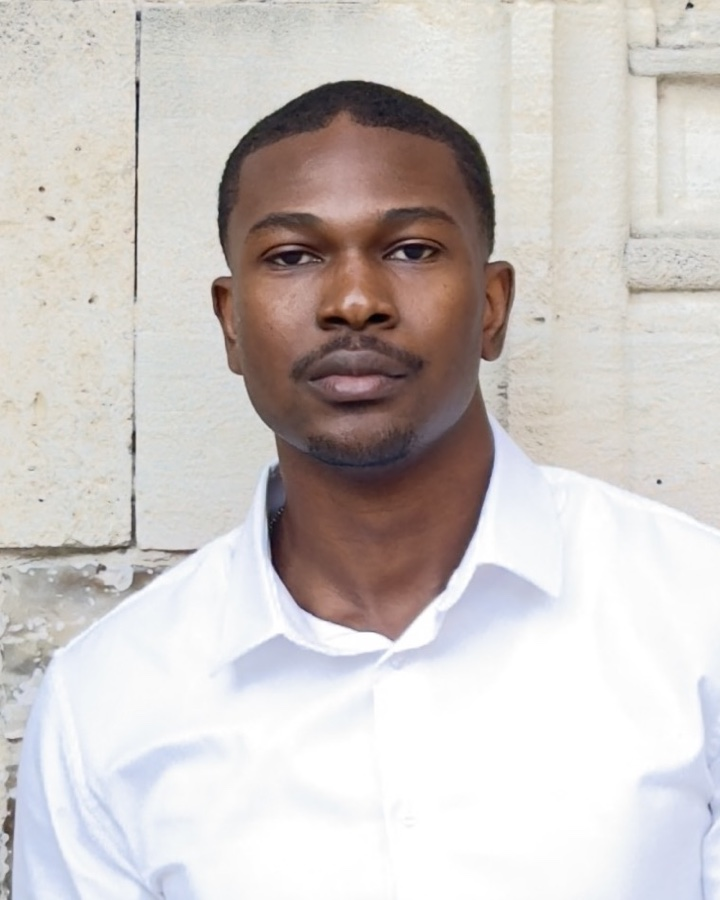
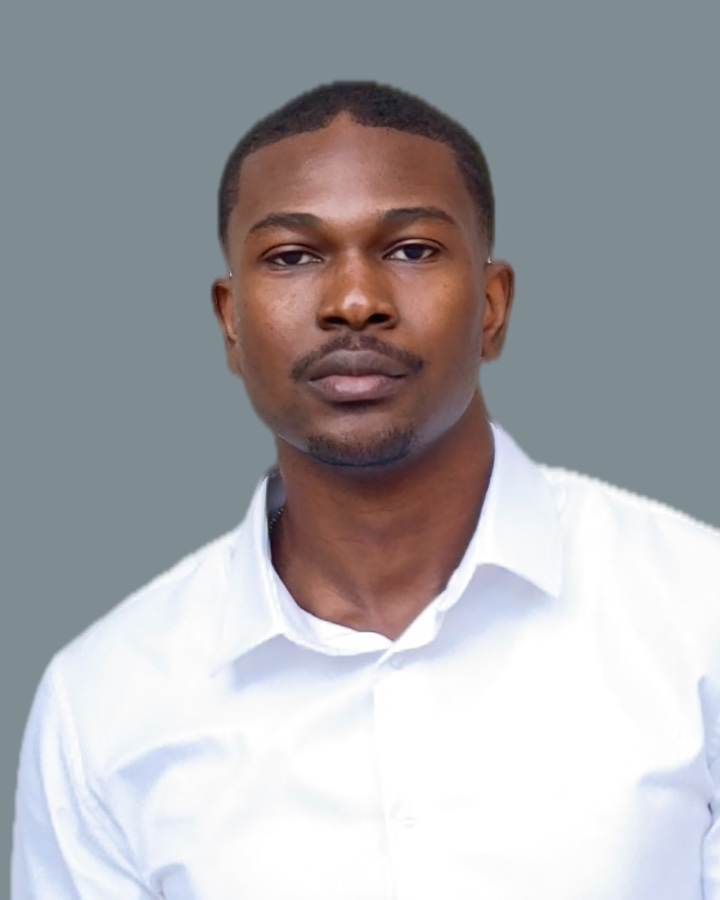
Passer le portrait sur un fond uni de studio
Sujet détouré avec Vision (macOS), bords recolorés depuis l'intérieur
du sujet pour éviter le liseré clair du mur d'origine, fond gris bleuté
uni #7F8C92 accordé à la palette du site.

diff --git a/en/index.html b/en/index.html
@@ -23,7 +23,7 @@
     <link rel="preconnect" href="https://fonts.googleapis.com" />
     <link rel="preconnect" href="https://fonts.gstatic.com" crossorigin />
     <link href="https://fonts.googleapis.com/css2?family=Figtree:wght@400;500;600;700&amp;family=IBM+Plex+Mono:wght@400;500&amp;display=swap" rel="stylesheet" />
-    <link rel="stylesheet" href="../portfolio.css?v=20261004j" />
+    <link rel="stylesheet" href="../portfolio.css?v=20261004k" />
     <script data-goatcounter="https://ikel-portfolio.goatcounter.com/count" async src="https://gc.zgo.at/count.js"></script>
   </head>
   <body>

diff --git a/index.html b/index.html
@@ -23,7 +23,7 @@
     <link rel="preconnect" href="https://fonts.googleapis.com" />
     <link rel="preconnect" href="https://fonts.gstatic.com" crossorigin />
     <link href="https://fonts.googleapis.com/css2?family=Figtree:wght@400;500;600;700&amp;family=IBM+Plex+Mono:wght@400;500&amp;display=swap" rel="stylesheet" />
-    <link rel="stylesheet" href="portfolio.css?v=20261004j" />
+    <link rel="stylesheet" href="portfolio.css?v=20261004k" />
     <script data-goatcounter="https://ikel-portfolio.goatcounter.com/count" async src="https://gc.zgo.at/count.js"></script>
   </head>
   <body>
